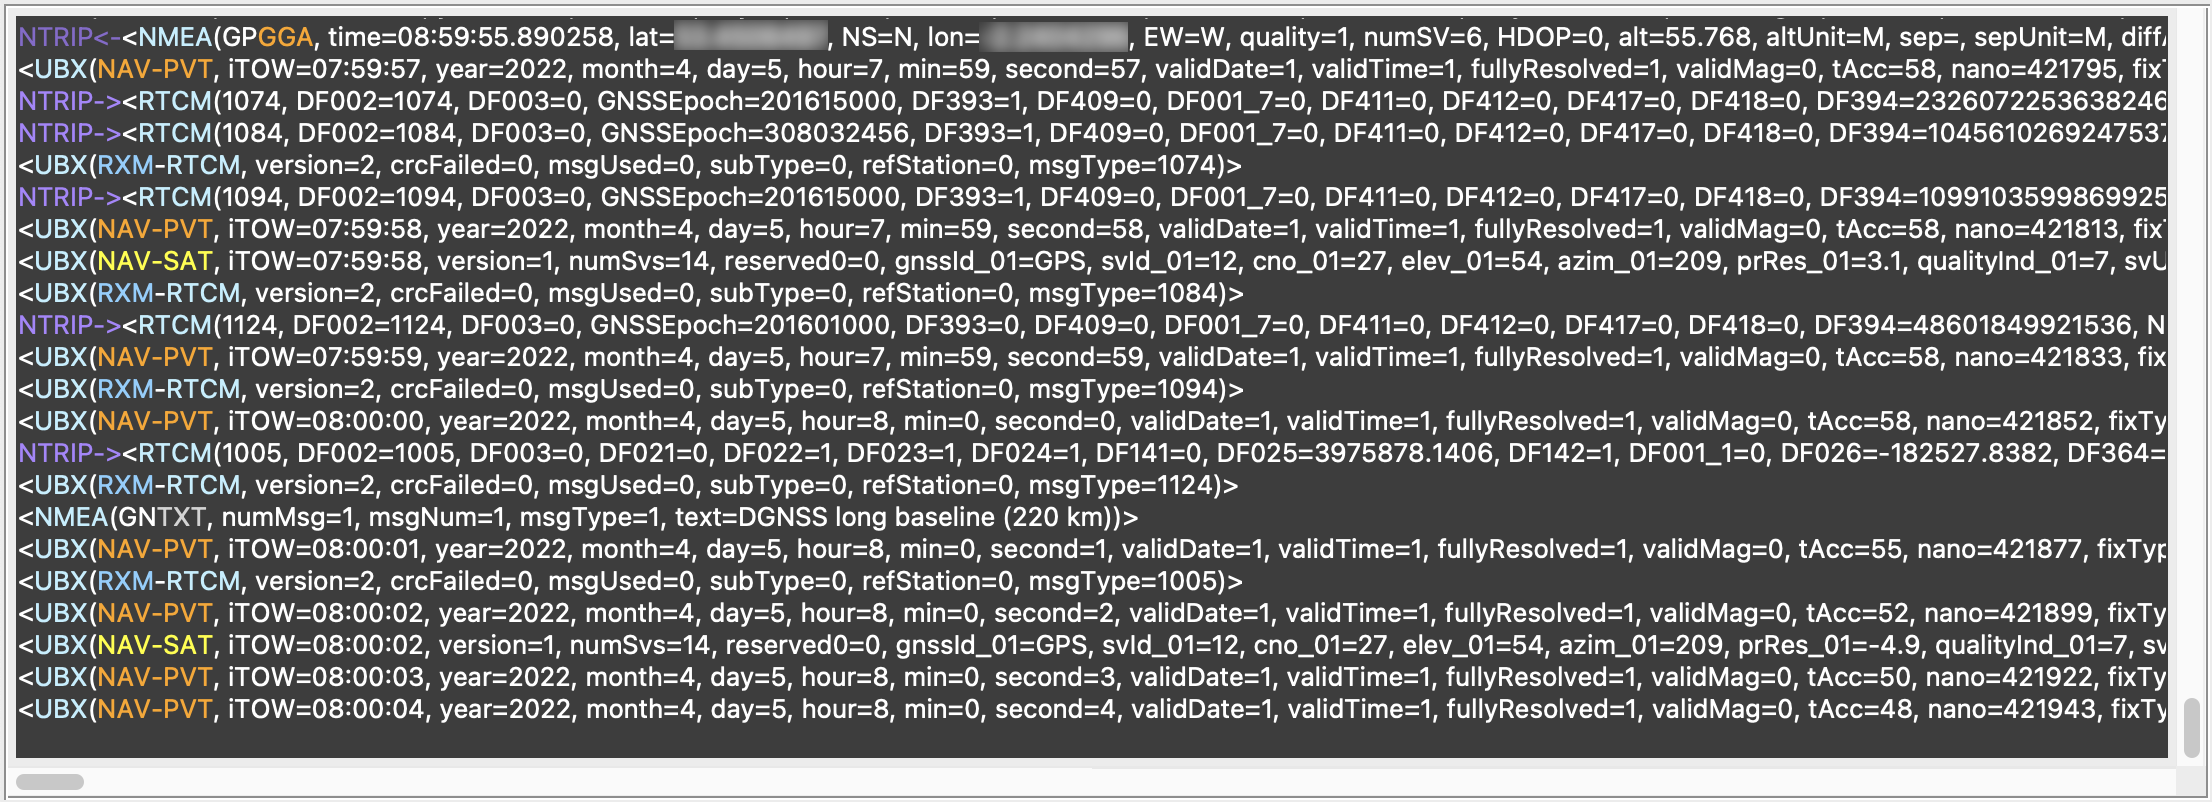
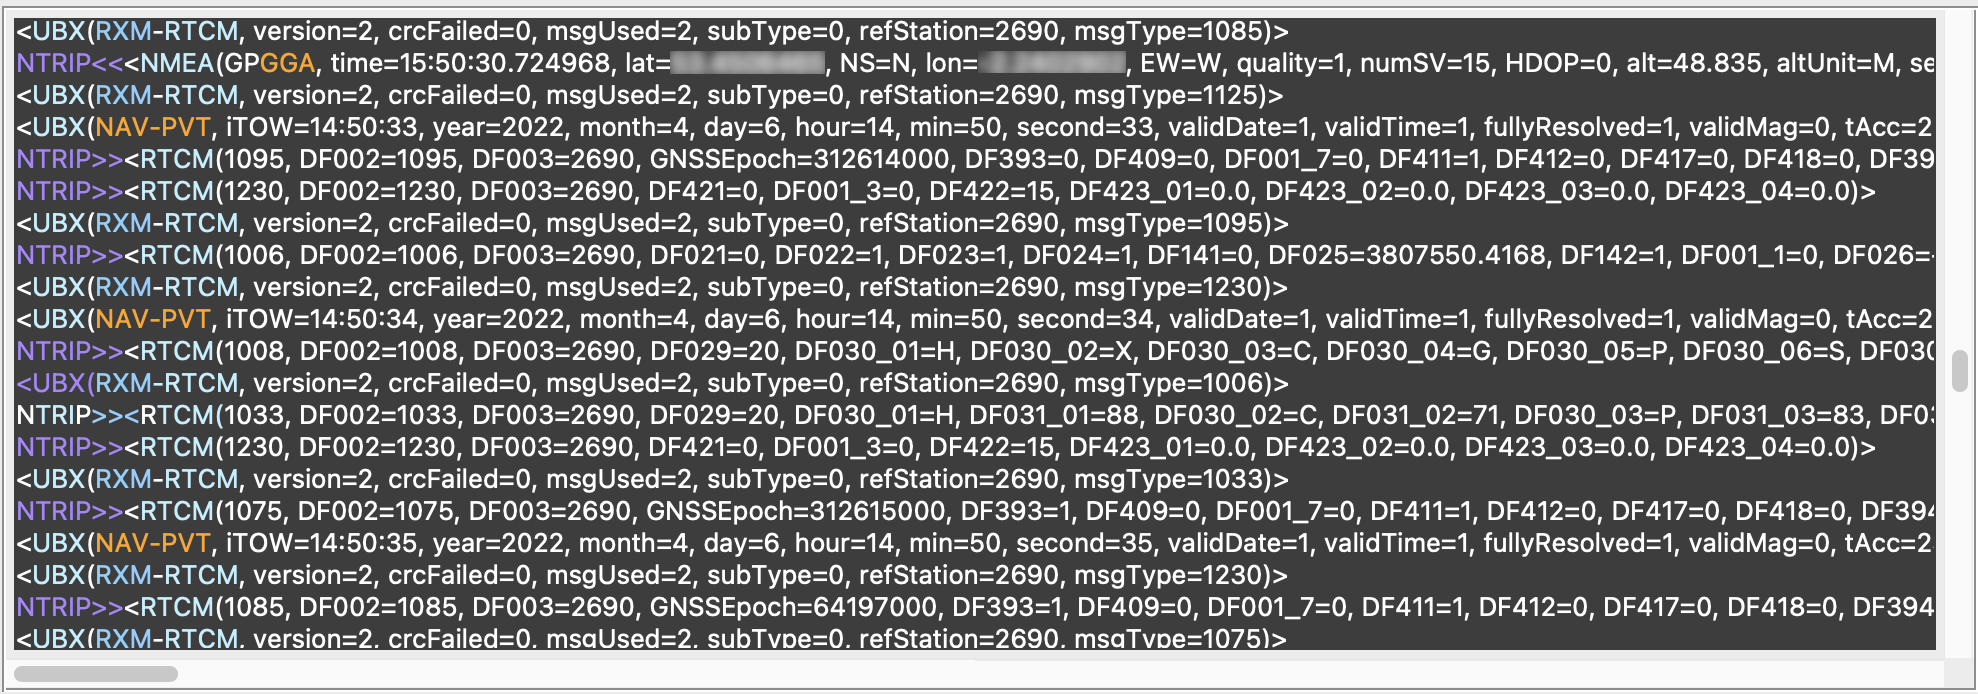
update readme & screenshot

diff --git a/README.md b/README.md
@@ -105,11 +105,10 @@ To use:
 ![disconnect icon](/pygpsclient/resources/iconmonstr-link-10-24.png).
 1. Some NTRIP services may output a high volume of RTCM3 correction messages, causing the GUI to perform more slowly. To suppress these messages in the console, de-select the 'RTCM' option in 'Protocols Displayed' (the RTCM3 messages will continue to be processed in the background).
 
-Below is a representative NTRIP data log, showing:
+Below is a illustrative NTRIP data log, showing:
 * outgoing NMEA GPGGA (client position) sentence.
-* incoming RTCM3 correction messages - 1005 (Ref Station ARP), 1074 (GPS MSM4), 1084 (GLONASS MSM4), 1094 (Galileo MSM4) and 1124 (Beidou MSM4).
-* corresponding UBX RXM-RTCM acknowledgements generated by the u-blox GNSS receiver. 
-* NMEA GNTXT information message indicating that the selected NTRIP basestation is some distance from the client.
+* incoming RTCM3 correction messages; in this case - 1006 (Ref station ARP (*DF003=2690*) with antenna height), 1008 (Antenna descriptor), 1033 (Receiver descriptor), 1075 (GPS MSM5), 1085 (GLONASS MSM5), 1095 (Galileo MSM5), 1125 (BeiDou MSM5) and 1230 (GLONASS Code-Phase Biases)
+* corresponding UBX RXM-RTCM acknowledgements generated by the u-blox ZED-F9P receiver, confirming message type, successful use (*msgUsed=2*) and reference station ARP (*refStation=2690*). NB: UBX RXM-RTCM message type must be enabled on the relevant port for this acknowledgement to be received. 
 
 ![ntrip console screenshot](/images/ntrip_consolelog.png)
 
